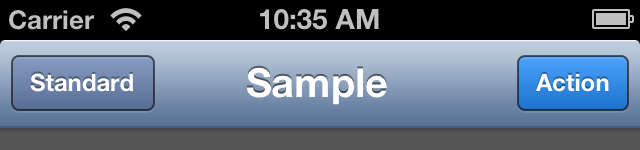
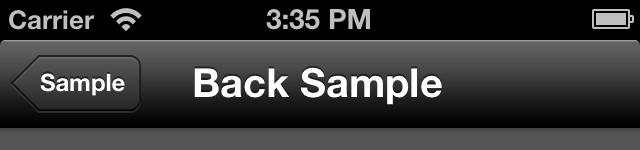
Updated Screenshots and Readme

diff --git a/README.md b/README.md
@@ -1,7 +1,7 @@
 BPBarButtonItem
 ===============
 
-BPBarButtonItem is a tool for making awesome looking custom UIBarButtonItems on the fly. BPBarButtonItem is *NOT* a subclass of `UIBarButtonItem` but an `NSObject` which creates skinned plain `UIBarButtonItem`s for use however you want. BPBarButtonItem can also be used to skin `UIBarButtonItem`s which have already been created, like in a nib or Storyboard. Generated buttons have support for both orientation styles.
+BPBarButtonItem is a tool for making awesome looking custom UIBarButtonItems on the fly. BPBarButtonItem is *NOT* a subclass of `UIBarButtonItem` but an `NSObject` which creates skinned plain `UIBarButtonItem`s for use however you want. BPBarButtonItem can also be used to skin `UIBarButtonItem`s which have already been created, like in a nib or Storyboard. Generated buttons have support for both orientation styles, and automatically show up properly for back buttons.
 
 ![BPBarButtonItem Screenshot 1][sshot1]<br>
 <br>
@@ -10,6 +10,10 @@ BPBarButtonItem is a tool for making awesome looking custom UIBarButtonItems on 
 ![BPBarButtonItem Screenshot 3][sshot3]<br>
 <br>
 ![BPBarButtonItem Screenshot 4][sshot4]<br>
+<br>
+![BPBarButtonItem Screenshot 5][sshot5]<br>
+<br>
+![BPBarButtonItem Screenshot 6][sshot6]<br>
 
 ## Installation
 
@@ -100,3 +104,5 @@ https://twitter.com/bgilham
 [sshot2]:https://raw.github.com/Vortec4800/BPBarButtonItem/master/Screenshots/screenshot-2.png
 [sshot3]:https://raw.github.com/Vortec4800/BPBarButtonItem/master/Screenshots/screenshot-3.png
 [sshot4]:https://raw.github.com/Vortec4800/BPBarButtonItem/master/Screenshots/screenshot-4.png
+[sshot5]:https://raw.github.com/Vortec4800/BPBarButtonItem/master/Screenshots/screenshot-5.png
+[sshot6]:https://raw.github.com/Vortec4800/BPBarButtonItem/master/Screenshots/screenshot-6.png
